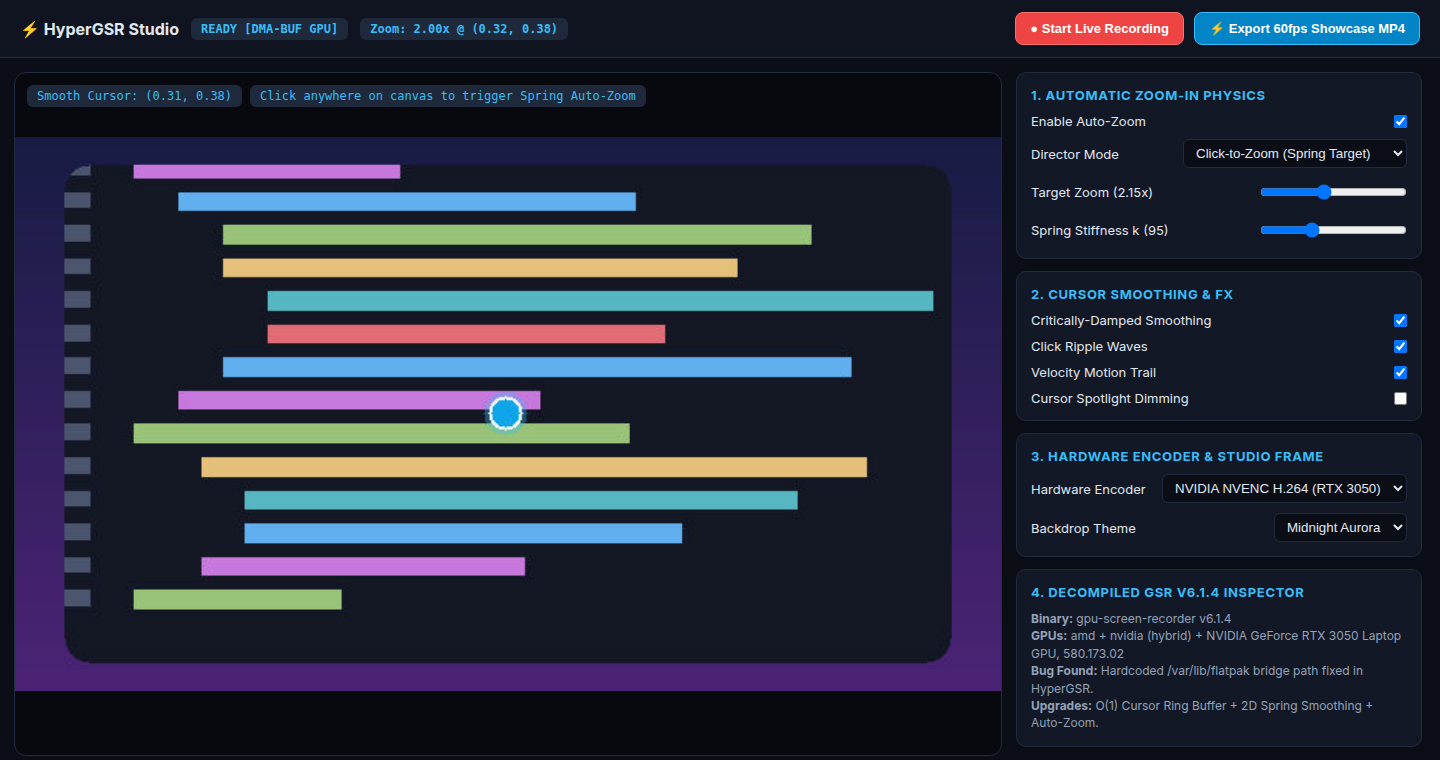
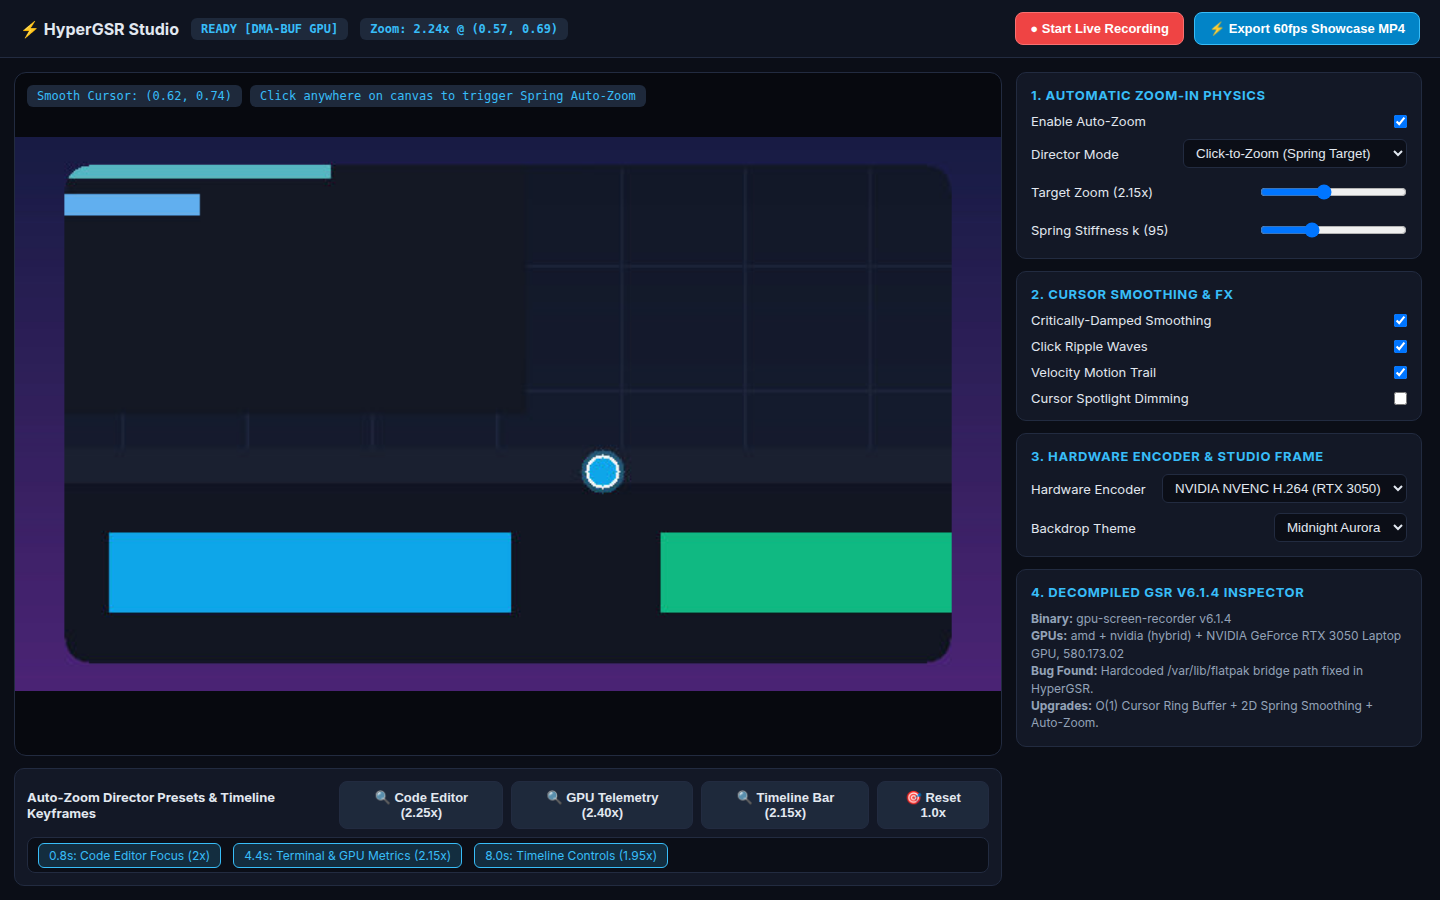
fix: Web Studio keyframe pills, install.sh on Ubuntu 24.04
- web_ui: keyframe pills read timestamp_ms/zoom, but ZoomKeyframe
  serializes start_ms/zoom_scale, so labels showed "NaNs ... (undefinedx)"
  and clicking sent no zoom, which /api/manual-zoom rejected with 422
- install.sh: fall back to building gtk4-layer-shell v1.3.0 into
  /usr/local when apt has no libgtk4-layer-shell-dev (before 25.10)
- DEVTO_ARTICLE: point at build_smooth_60fps_camera_frames
- README: full Web Studio screenshot, note install.sh handles 24.04

diff --git a/src/web_ui.rs b/src/web_ui.rs
@@ -490,7 +490,7 @@ async function refreshLoop() {
     }
     const kfTrack = document.getElementById('kfTrack');
     kfTrack.innerHTML = d.keyframes.map(k =>
-      `<span class="kf-pill" onclick="triggerZoom(${k.target_x}, ${k.target_y}, ${k.zoom})">${(k.timestamp_ms/1000).toFixed(1)}s: ${k.label} (${k.zoom}x)</span>`
+      `<span class="kf-pill" onclick="triggerZoom(${k.target_x}, ${k.target_y}, ${k.zoom_scale})">${(k.start_ms/1000).toFixed(1)}s: ${k.label} (${k.zoom_scale}x)</span>`
     ).join('');
   } catch (e) {}
 }

diff --git a/DEVTO_ARTICLE.md b/DEVTO_ARTICLE.md
@@ -66,9 +66,9 @@ Early prototypes of auto-zoom recorders suffer from two annoying bugs:
 1. **Motion Sickness / Wobble**: Every tiny mouse wiggle pans the camera.
 2. **Stuck Zoom**: The camera zooms in to `2.0×` and stays zoomed in forever.
 
-In [`src/zoom_engine.rs`](https://github.com/KunalSiyag/gpu-recorder-rs/blob/main/src/zoom_engine.rs), we implemented a two-layer camera system:
+Across [`src/zoom_engine.rs`](https://github.com/KunalSiyag/gpu-recorder-rs/blob/main/src/zoom_engine.rs) and [`src/encoder.rs`](https://github.com/KunalSiyag/gpu-recorder-rs/blob/main/src/encoder.rs), we implemented a two-layer camera system:
 
-### 1. Bounded Screen Studio Trajectory Planner (`build_camera_trajectory`)
+### 1. Bounded Screen Studio Trajectory Planner (`build_smooth_60fps_camera_frames`)
 Instead of staying zoomed in continuously, the planner detects discrete focus moments (clicks, custom gesture combos, or stationary dwell clusters where velocity drops below `0.14 uv/s` after traveling across the screen), holds the zoom for `1.65s`, and **automatically pulls back to `1.0×` wide view** whenever the cursor makes a fast cross-screen move (`speed > 1.15 uv/s`).
 
 ### 2. 240Hz Sub-Stepped Critically-Damped Spring ODE ($\zeta = 1.0$)

diff --git a/README.md b/README.md
@@ -139,7 +139,7 @@ sudo apt update && sudo apt install -y \
   libpipewire-0.3-dev libportal-dev ffmpeg
 ```
 
-**Ubuntu 24.04 / 25.04 / Pop!_OS 24.04:** `libgtk4-layer-shell-dev` isn't packaged before Ubuntu 25.10. Install everything above except that package, then build it from source, the same way CI does:
+**Ubuntu 24.04 / 25.04 / Pop!_OS 24.04:** `libgtk4-layer-shell-dev` isn't packaged before Ubuntu 25.10. `./install.sh` builds it from source automatically. To do it by hand, install everything above except that package, then:
 
 ```bash
 sudo apt install -y meson ninja-build libwayland-dev libwayland-bin wayland-protocols
